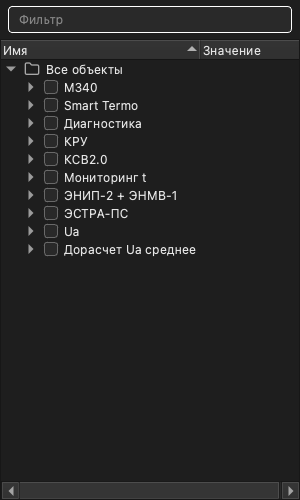
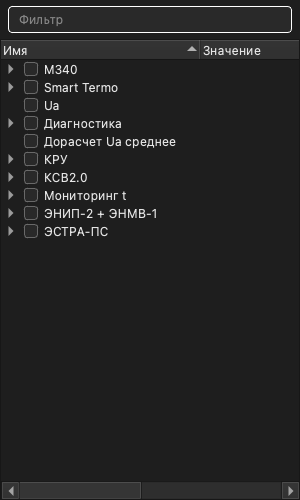
client: the Explorer's trees start at their content, not at a row repeating the pane title
Mirrors into Qt the information-architecture rule the web client took on in
f302f671a, which CLAUDE.md holds shared between the two realms: a single-subject
Explorer pane names its subject once, and a tree whose heading already names its
root draws no row for that root. Appearance stays each realm's own; only the
structure is shared.

Two of the web's three changes had nothing to mirror. Qt draws no section
heading anywhere -- a pane is a WIN_SING WindowInfo that ViewManager renders as
a QDockWidget titled from WindowInfo::title, and nothing sits between that title
bar and the tree. The root row was the whole duplication, and it hit all four
ConfigurationTreeView panes: against the shipped nodesets, Files read "Файлы"
over "Файлы", Objects "Объекты" over "Все объекты", Subsystems "Оборудование"
over "Все оборудование", Nodes "Узлы" over "Корневая папка".

The third had nothing to mirror either, and that is the finding worth keeping.
The web had to move the root's commands to a pane-head overflow, because its
tree row was the only selection target. Qt does not: UpdateSelection already
maps an EMPTY selection onto the root, so the context menu, the menu bar and the
command toolbar all still act on it. What Qt has no equivalent of is the
overflow control itself -- the docks wear Qt's stock title bar and no pane
carries a QToolBar -- so that is filed as 638 rather than invented here.

Hiding a root turned out to need work in Tree first. It is a
[…]

Changed region(s): [[0.03, 0.12, 0.66, 0.51], [0.9, 0.96, 0.93, 0.99]]

diff --git a/client.md b/client.md
@@ -280,6 +280,8 @@ permalink: /client/
 
 Панель объектов служит для быстрого выбора объектов, вызова различных окон и выполнения команд и операций с объектами. В панели объектов отображается структура объектов, разбитых по группам. Панель объектов можно отобразить командой меню *Далее - Объекты*.
 
+Дерево начинается сразу с объектов и групп верхнего уровня: отдельная корневая строка не выводится, поскольку заголовок панели уже называет её содержимое.
+
 Напротив имен объектов в правой части панели выводятся их значения и признаки качества. Недостоверные значения отображаются серым цветом. При наличии не квитированных системных событий, связанных с объектом, значение мигает желтым цветом.
 
 Для групп отображается состояние связи с устройством, привязанного к группе. Привязать устройство можно в параметрах группы, будучи в режиме администрирования:
@@ -300,7 +302,7 @@ permalink: /client/
 
 ### Статусы устройств
 
-В окне `Оборудование` отображается иерархия устройств, слева от которых располагаются индикаторы текущего состояния канала связи с устройством (*канал связи отключен*, *канал связи включен* и *устройство не отвечает*):
+В окне `Оборудование` отображается иерархия устройств, начинающаяся сразу с элементов верхнего уровня — отдельная корневая строка не выводится. Слева от устройств располагаются индикаторы текущего состояния канала связи с устройством (*канал связи отключен*, *канал связи включен* и *устройство не отвечает*):
 
 ![](img/hardware-tree.png)
 

diff --git a/client/workbench.md b/client/workbench.md
@@ -32,6 +32,9 @@ permalink: /client/workbench/
   этой строке не показываются — они выведены только в строке состояния.
 - **Панель объектов** — дерево объектов с полем «Фильтр» и точками качества:
   зелёная — достоверно, жёлтая — неопределённо, красная — недостоверно.
+  Дерево начинается сразу с содержимого: заголовок панели уже называет его,
+  поэтому отдельная корневая строка не выводится. То же и в панелях
+  «Оборудование», «Файлы» и «Узлы».
 - **Вкладки рабочей области** — открытые окна (журнал, таблицы, графики,
   мнемосхемы) в виде вкладок редактора.
 - **Панели справа** — Инспектор, Диагностика устройства, Права доступа,

diff --git a/en/client/workbench.md b/en/client/workbench.md
@@ -31,7 +31,9 @@ The workbench regions:
   the connection state and the server address are not shown here — they appear
   in the status strip only.
 - **Object explorer** — the object tree with a "Filter" field and quality
-  dots: green — good, amber — uncertain, red — bad.
+  dots: green — good, amber — uncertain, red — bad. The tree starts at its
+  content: the pane's own title already names it, so no separate root row is
+  drawn. The same holds for the Devices, Files and Nodes panes.
 - **Workspace tabs** — the open windows (journal, tables, graphs, schematic
   displays) as editor-style tabs.
 - **Right-hand panels** — Inspector, Device diagnostics, Access rights,

diff --git a/en/client.md b/en/client.md
@@ -170,6 +170,9 @@ The object panel is used to browse the object hierarchy, open related
 views, and execute object operations. It is available from
 `Further -> Objects`.
 
+The tree starts at the top-level objects and groups: no separate root row
+is drawn, because the panel's own title already names what it contains.
+
 The panel shows objects grouped by hierarchy. Values and quality flags
 appear to the right of object names. Invalid values are shown in gray.
 If an object has unacknowledged system events, its value flashes yellow.
